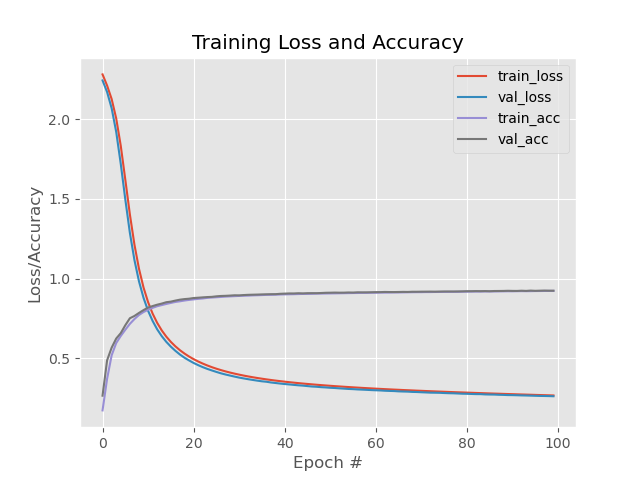
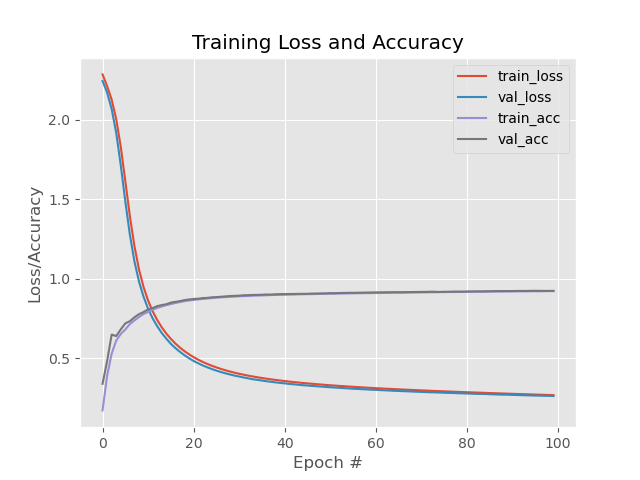
Keras CIFAR-10 demo.

diff --git a/dlcv/keras_cifar10_demo.py b/dlcv/keras_cifar10_demo.py
@@ -7,13 +7,13 @@ import tensorflow as tf
 import matplotlib.pyplot as plt
 import numpy as np
 
-# load the MNIST dataset of 70,000 hand-written digits
-# 60,000 for training and 10,000 for testing
-((trainX, trainY), (testX, testY)) = tf.keras.datasets.mnist.load_data()
+# load the CIFAR-10 dataset of 60,000 images of 10 classes
+# 50,000 for training and 10,000 for testing
+((trainX, trainY), (testX, testY)) = tf.keras.datasets.cifar10.load_data()
 
-# flatten each 28x28x1 image to a simple list of 28x28=784 pixels
-trainX = trainX.reshape((trainX.shape[0], 28 * 28 * 1))
-testX = testX.reshape((testX.shape[0], 28 * 28 * 1))
+# flatten each 32x32x3 image to a simple list of 32x32x3=3072 pixels
+trainX = trainX.reshape((trainX.shape[0], 32 * 32 * 3))
+testX = testX.reshape((testX.shape[0], 32 * 32 * 3))
 
 # scale data to the range of [0, 1]
 trainX = trainX.astype('float32') / 255.0
@@ -29,8 +29,8 @@ num_features = trainX.shape[1]
 print(f'{num_features=}')
 model = tf.keras.models.Sequential()
 model.add(tf.keras.layers.InputLayer(input_shape=(num_features,))) # input layer
-model.add(tf.keras.layers.Dense(256, activation='sigmoid')) # hidden layer
-model.add(tf.keras.layers.Dense(128, activation='sigmoid')) # hidden layer
+model.add(tf.keras.layers.Dense(1024, activation='relu')) # hidden layer
+model.add(tf.keras.layers.Dense(512, activation='relu')) # hidden layer
 model.add(tf.keras.layers.Dense(10, activation='softmax')) # output layer
 model.summary()
 
@@ -38,15 +38,15 @@ model.summary()
 sgd = tf.keras.optimizers.SGD(0.01)
 
 # compile the model
-model.compile(loss="categorical_crossentropy", optimizer=sgd,  metrics=["accuracy"])
+model.compile(loss="categorical_crossentropy", optimizer=sgd, metrics=["accuracy"])
 
 # train the model
 EPOCHS = 100
-H = model.fit(x=trainX, y=trainY, validation_data=(testX, testY), epochs=EPOCHS, batch_size=128)
+H = model.fit(trainX, trainY, validation_data=(testX, testY), epochs=EPOCHS, batch_size=32)
 
 # evaluate the network
-predictions = model.predict(testX, batch_size=128)
-label_names = [str(x) for x in lb.classes_]
+predictions = model.predict(testX, batch_size=32)
+label_names = ["airplane", "automobile", "bird", "cat", "deer", "dog", "frog", "horse", "ship", "truck"]
 print(label_names)
 report = classification_report(
     y_true=testY.argmax(axis=1),
@@ -65,4 +65,4 @@ plt.title("Training Loss and Accuracy")
 plt.xlabel("Epoch #")
 plt.ylabel("Loss/Accuracy")
 plt.legend()
-plt.savefig('keras_mnist_demo.png')
+plt.savefig('keras_cifar10_demo.png')
